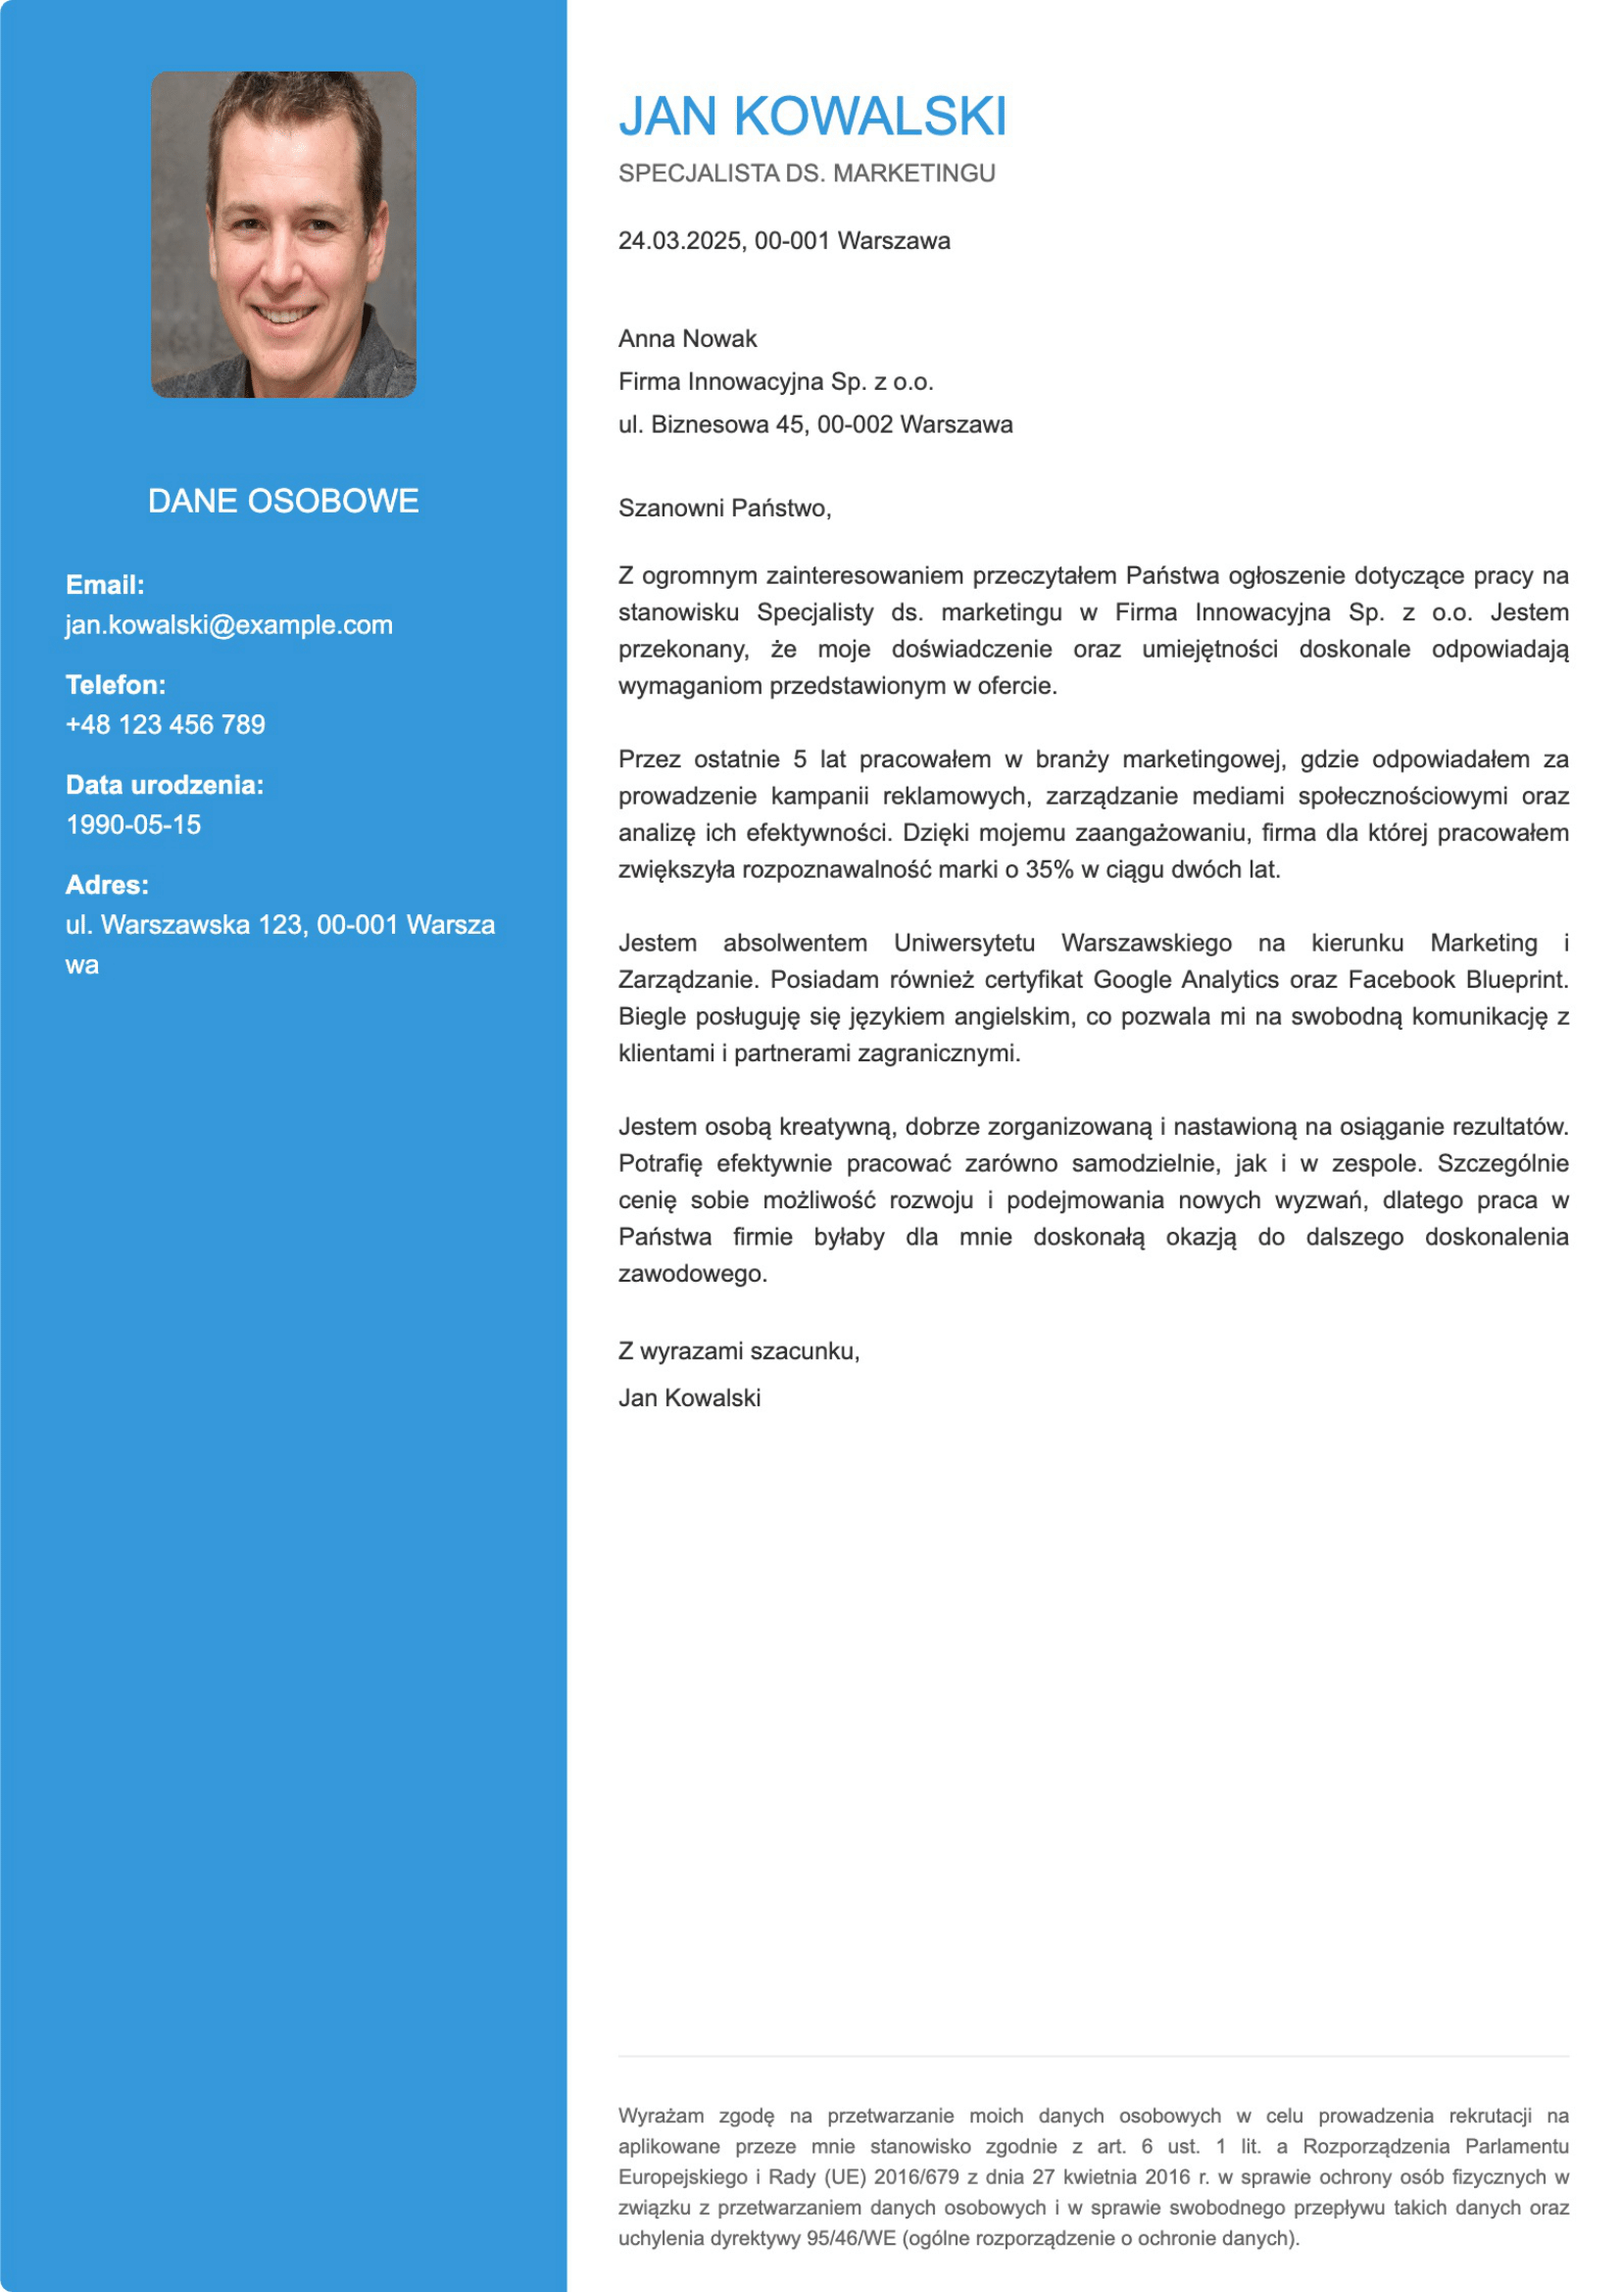
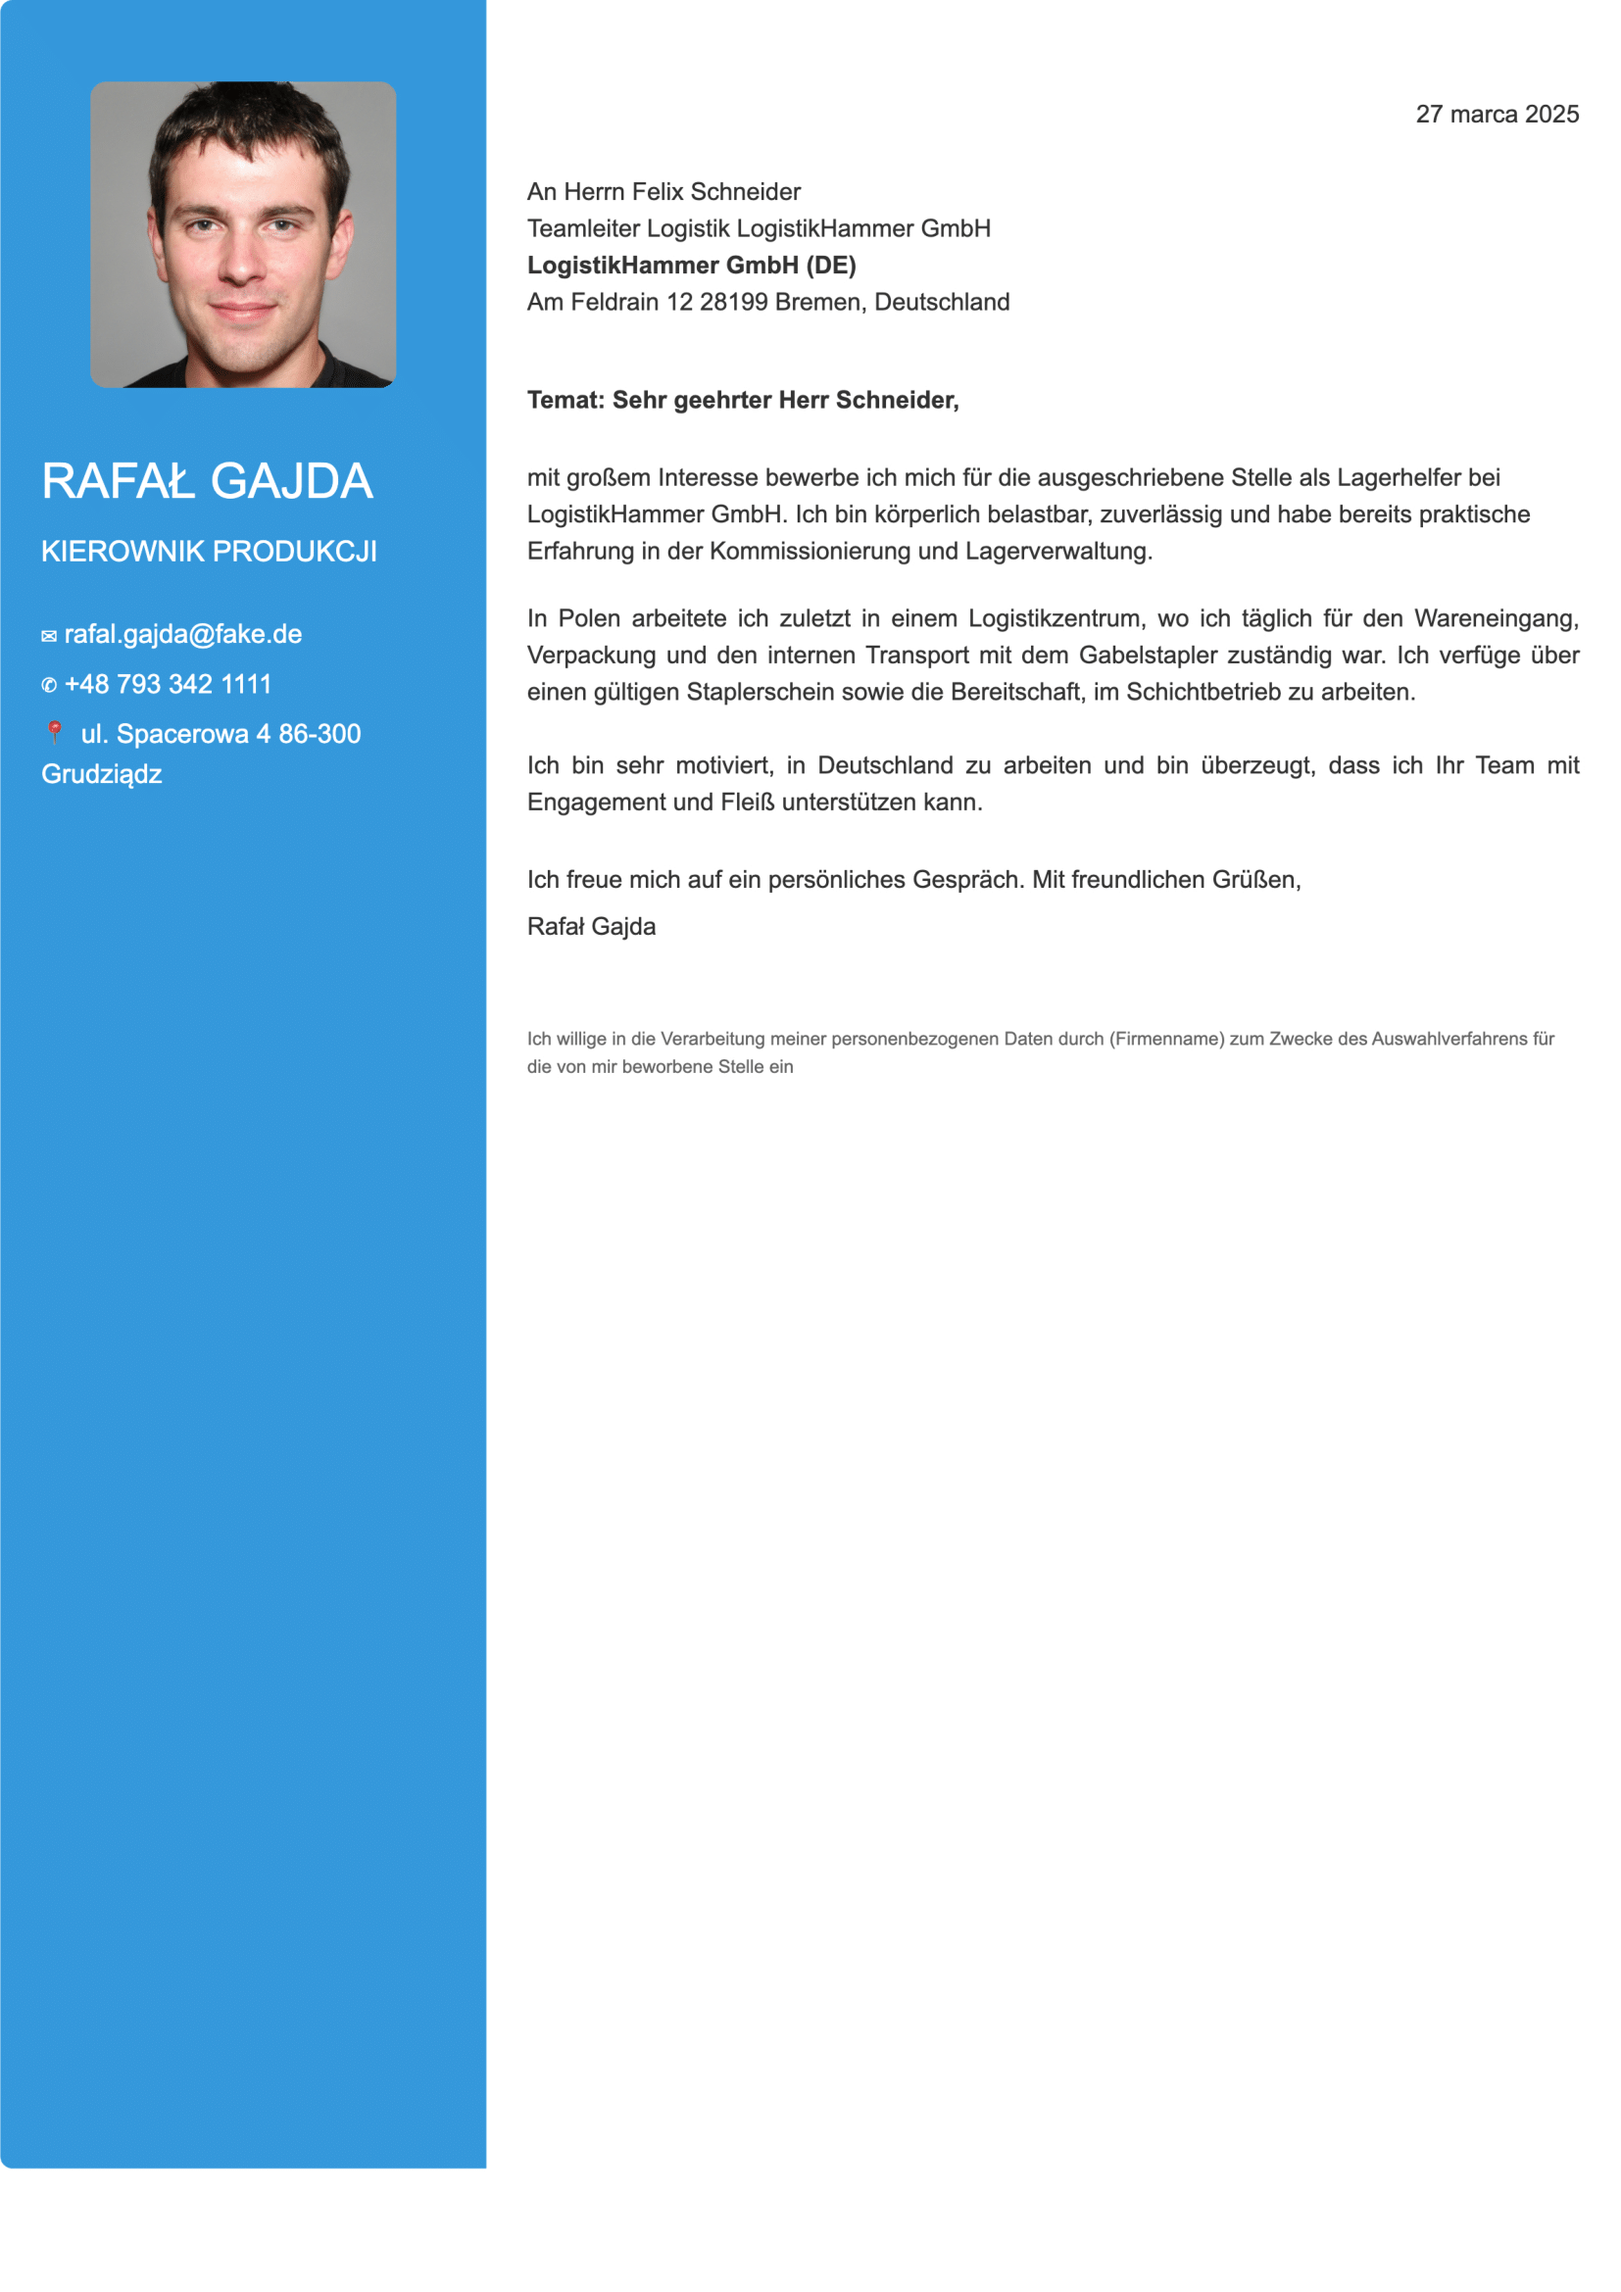
zmiana zdjec listow

Changed region(s): [[0.0, 0.0, 0.9867, 1.0], [0.8942, 0.0312, 0.9559, 0.0624]]

diff --git a/src/lib/templates/minimalist-icons-template.ts b/src/lib/templates/minimalist-icons-template.ts
@@ -48,8 +48,18 @@ export const minimalistIconsTemplate: DocumentTemplate = {
       
         <!-- Header -->
         <div style="padding-bottom: 20px;">
-          <h1 style="margin: 0; font-size: 28px; font-weight: bold; color: #1e293b;">${fullName}</h1>
-          <p style="margin: 5px 0; font-size: 16px; color: #475569;">${position}</p>
+            <div style="margin-bottom: 20px; display: flex; justify-content: space-between; align-items: center;">
+                 <div>
+                 <h1 style="margin: 0; font-size: 28px; font-weight: bold; color: #1e293b;">${fullName}</h1>
+                  <p style="margin: 5px 0; font-size: 16px; color: #475569;">${position}</p>
+                </div>
+                 ${data.photo ? `
+            <div style="width: 100px; height: 100px; overflow: hidden; border-radius: 50%;">
+              <img src="${data.photo}" style="width: 100%; height: 100%; object-fit: cover;" alt="${fullName}" />
+            </div>
+          ` : ''}
+            </div>
+         
           
           <!-- Contact Information -->
           <div style="margin-top: 20px; display: flex; flex-wrap: wrap; gap: 15px; font-size: 14px; color: #64748b;">
@@ -58,6 +68,8 @@ export const minimalistIconsTemplate: DocumentTemplate = {
             ${data.address ? `<p style="margin: 0;"><span style="color: ${primaryColor}; margin-right: 5px;">📍</span> ${data.address}</p>` : ''}
             ${birthDate ? `<p style="margin: 0;"><span style="color: ${primaryColor}; margin-right: 5px;">🎂</span> ${birthDate}</p>` : ''}
           </div>
+          
+          
         </div>
         
         <!-- Divider line with primary color -->

diff --git a/src/lib/templates/teal-sidebar-template.ts b/src/lib/templates/teal-sidebar-template.ts
@@ -46,6 +46,12 @@ export const tealSidebarTemplate: DocumentTemplate = {
       <div style="width: 100%; max-width: 21cm; margin: 0 auto; padding: 0; font-family: ${fontFamily}; font-size: ${fontSize}; line-height: 1.5; color: #333; box-sizing: border-box; display: flex; flex-direction: row; min-height: 29.7cm;">
         <!-- Sidebar -->
         <div style="width: 30%; background-color: ${primaryColor}; color: white; padding: 40px 20px 20px 20px; box-sizing: border-box; border-radius: 6px 0 0 6px;">
+        
+${data.photo ? `
+  <div style="width: 100%; height: 150px; margin-bottom: 16px; overflow: hidden;  display: flex; align-items: center; justify-content: center;">
+    <img src="${data.photo}" style="width: 150px; height: 100%; border-radius: 8px; object-fit: cover;" alt="${fullName}" />
+  </div>
+` : ''}
           <h1 style="margin: 0 0 10px 0; font-size: 24px; text-transform: uppercase;">${fullName}</h1>
           <p style="margin: 0 0 20px 0; text-transform: uppercase; font-size: 14px;">${position}</p>
           
